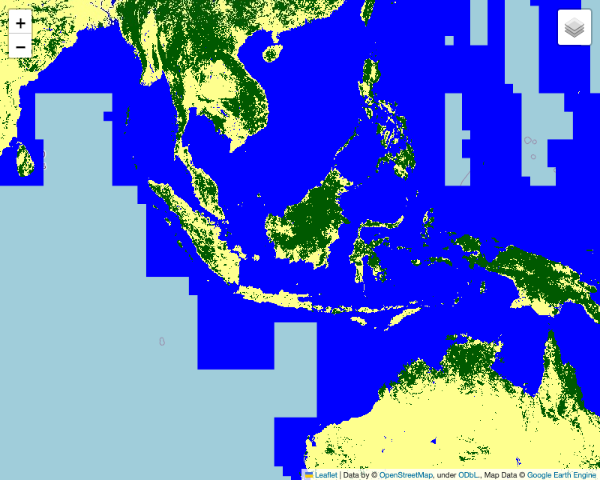
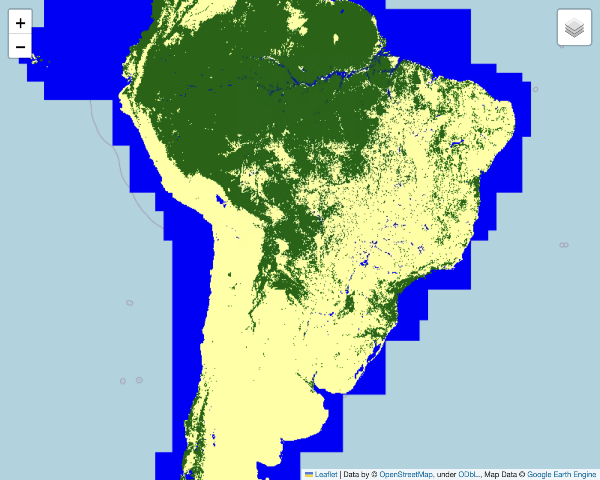
implemented authentication with json key

diff --git a/deforestationMap.html b/deforestationMap.html
@@ -25,7 +25,7 @@
             <meta name="viewport" content="width=device-width,
                 initial-scale=1.0, maximum-scale=1.0, user-scalable=no" />
             <style>
-                #map_63feb186e7b9fafebe99917f7fd6ec17 {
+                #map_2ebe541071b320558ef1b2048ae620e0 {
                     position: relative;
                     width: 100.0%;
                     height: 100.0%;
@@ -39,16 +39,16 @@
 <body>
     
     
-            <div class="folium-map" id="map_63feb186e7b9fafebe99917f7fd6ec17" ></div>
+            <div class="folium-map" id="map_2ebe541071b320558ef1b2048ae620e0" ></div>
         
 </body>
 <script>
     
     
-            var map_63feb186e7b9fafebe99917f7fd6ec17 = L.map(
-                "map_63feb186e7b9fafebe99917f7fd6ec17",
+            var map_2ebe541071b320558ef1b2048ae620e0 = L.map(
+                "map_2ebe541071b320558ef1b2048ae620e0",
                 {
-                    center: [-1.0, 113.0],
+                    center: [-20.0, -60.0],
                     crs: L.CRS.EPSG3857,
                     zoom: 4,
                     zoomControl: true,
@@ -60,31 +60,31 @@
 
         
     
-            var tile_layer_95182ef9e7a28dd909c7b526912622c7 = L.tileLayer(
+            var tile_layer_7016fb22ff5e03ffcc0dc31ae95f292a = L.tileLayer(
                 "https://{s}.tile.openstreetmap.org/{z}/{x}/{y}.png",
                 {"attribution": "Data by \u0026copy; \u003ca target=\"_blank\" href=\"http://openstreetmap.org\"\u003eOpenStreetMap\u003c/a\u003e, under \u003ca target=\"_blank\" href=\"http://www.openstreetmap.org/copyright\"\u003eODbL\u003c/a\u003e.", "detectRetina": false, "maxNativeZoom": 18, "maxZoom": 18, "minZoom": 0, "noWrap": false, "opacity": 1, "subdomains": "abc", "tms": false}
-            ).addTo(map_63feb186e7b9fafebe99917f7fd6ec17);
+            ).addTo(map_2ebe541071b320558ef1b2048ae620e0);
         
     
-            var tile_layer_237de2fa069f1cebb9f0011f92821087 = L.tileLayer(
-                "https://earthengine.googleapis.com/v1alpha/projects/earthengine-legacy/maps/1c5b706b8292a20bce269a3cecd6ac7b-e8aed868025873fffe639b9d558e3f32/tiles/{z}/{x}/{y}",
+            var tile_layer_ad9bc51ce4b17f5b58471a035fd72fef = L.tileLayer(
+                "https://earthengine.googleapis.com/v1alpha/projects/earthengine-legacy/maps/1c5b706b8292a20bce269a3cecd6ac7b-c4607d425b8283ba9d9c25956af8e5aa/tiles/{z}/{x}/{y}",
                 {"attribution": "Map Data \u00a9 \u003ca href=\"https://earthengine.google.com/\"\u003eGoogle Earth Engine\u003c/a\u003e", "detectRetina": false, "maxNativeZoom": 18, "maxZoom": 18, "minZoom": 0, "noWrap": false, "opacity": 1, "subdomains": "abc", "tms": false}
-            ).addTo(map_63feb186e7b9fafebe99917f7fd6ec17);
+            ).addTo(map_2ebe541071b320558ef1b2048ae620e0);
         
     
-            var layer_control_5a9d515e1f6d3fd1a29a888b975f358a = {
+            var layer_control_a37fff8258957cfaea4499355a760abd = {
                 base_layers : {
-                    "openstreetmap" : tile_layer_95182ef9e7a28dd909c7b526912622c7,
+                    "openstreetmap" : tile_layer_7016fb22ff5e03ffcc0dc31ae95f292a,
                 },
                 overlays :  {
-                    "Forest/Non-Forest" : tile_layer_237de2fa069f1cebb9f0011f92821087,
+                    "Forest/Non-Forest" : tile_layer_ad9bc51ce4b17f5b58471a035fd72fef,
                 },
             };
             L.control.layers(
-                layer_control_5a9d515e1f6d3fd1a29a888b975f358a.base_layers,
-                layer_control_5a9d515e1f6d3fd1a29a888b975f358a.overlays,
+                layer_control_a37fff8258957cfaea4499355a760abd.base_layers,
+                layer_control_a37fff8258957cfaea4499355a760abd.overlays,
                 {"autoZIndex": true, "collapsed": true, "position": "topright"}
-            ).addTo(map_63feb186e7b9fafebe99917f7fd6ec17);
+            ).addTo(map_2ebe541071b320558ef1b2048ae620e0);
         
 </script>
 </html>

diff --git a/helpers.py b/helpers.py
@@ -7,8 +7,11 @@ import numpy as np
 import cv2
 #import earth engine api and authenticate/initizlize
 import ee
-ee.Authenticate()
-ee.Initialize()
+from google.oauth2.service_account import Credentials 
+from google.oauth2 import service_account
+# ee.Authenticate()
+credentials = Credentials.from_service_account_file('./static/jsonkey.json', scopes=['https://www.googleapis.com/auth/cloud-platform'])
+ee.Initialize(credentials=credentials)
 
 # Define a method for displaying Earth Engine image tiles to folium map.
 def add_ee_layer(self, ee_image_object, vis_params, name):

diff --git a/app.py b/app.py
@@ -1,9 +1,10 @@
 from flask import Flask, render_template, request, redirect
-import helpers
 import message
+import helpers
 import os
 
 app = Flask(__name__)
+# os.environ['GOOGLE_APPLICATION_CREDENTIALS']='./static/jsonkey.json'
 
 @app.route('/')
 def index():
@@ -47,4 +48,4 @@ def leaderboard():
 
 if __name__ == '__main__':
     #./ngrok http 3000
-    app.run(port=3000) #debug = True in order to not run every time
+    app.run(port=3000) #debug = True //in order to not run every time

diff --git a/message.py b/message.py
@@ -5,8 +5,8 @@ import time
 
 
 #twilio setup -- to be converted to env variables
-# account_sid = 
-# auth_token = 
+account_sid = "AC1a2e909926f462233a69d2ec20f1a229"
+auth_token = "ac30eaefd6b71f7139b50f27fc601b6f"
 
 #estuary set up
 url = "https://api.estuary.tech/content/add"
